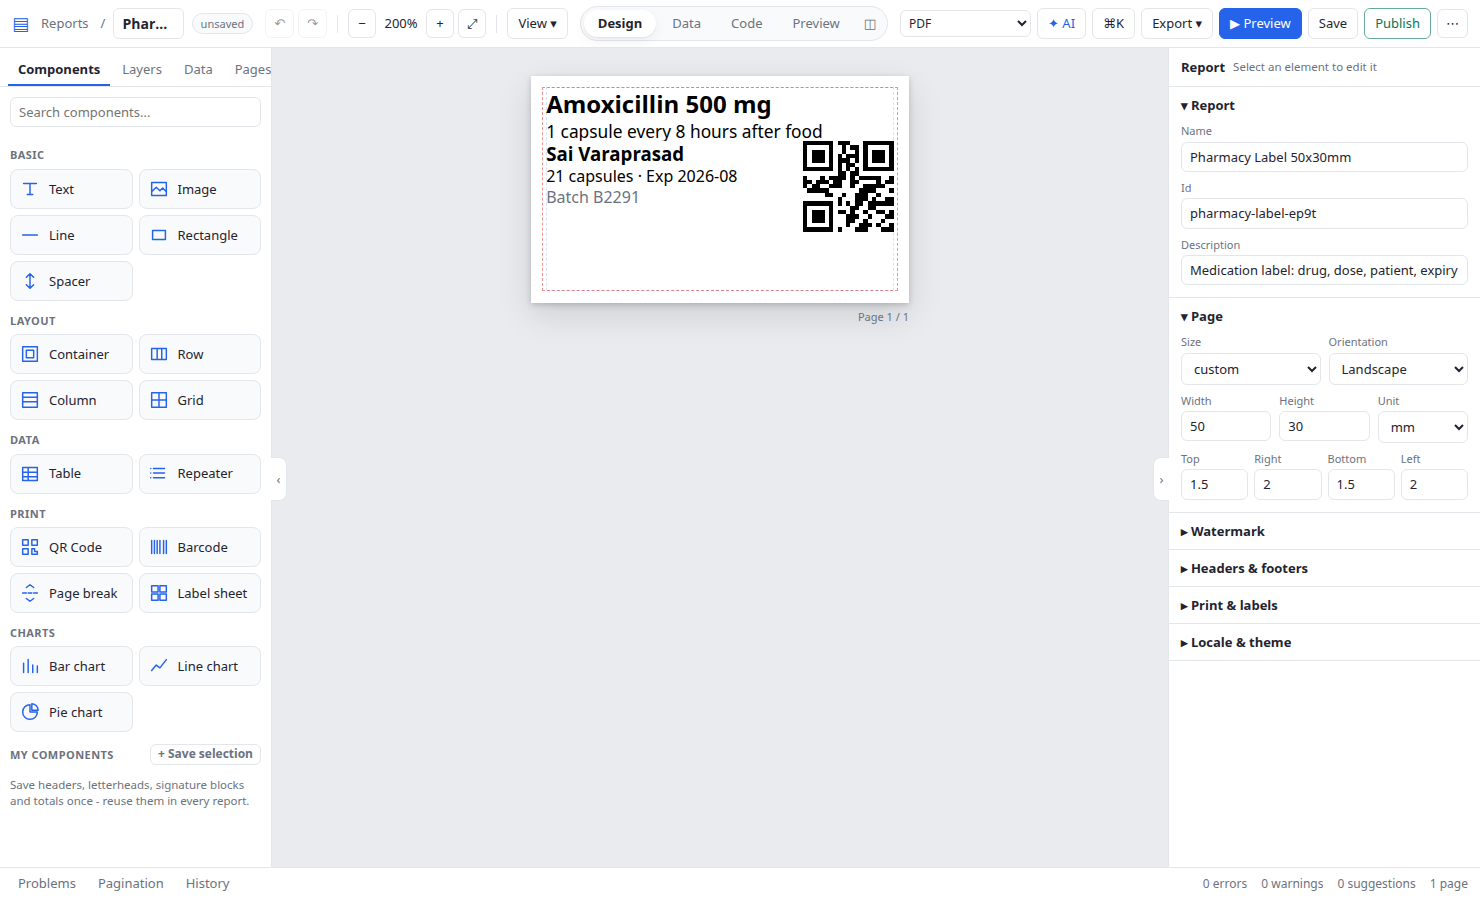
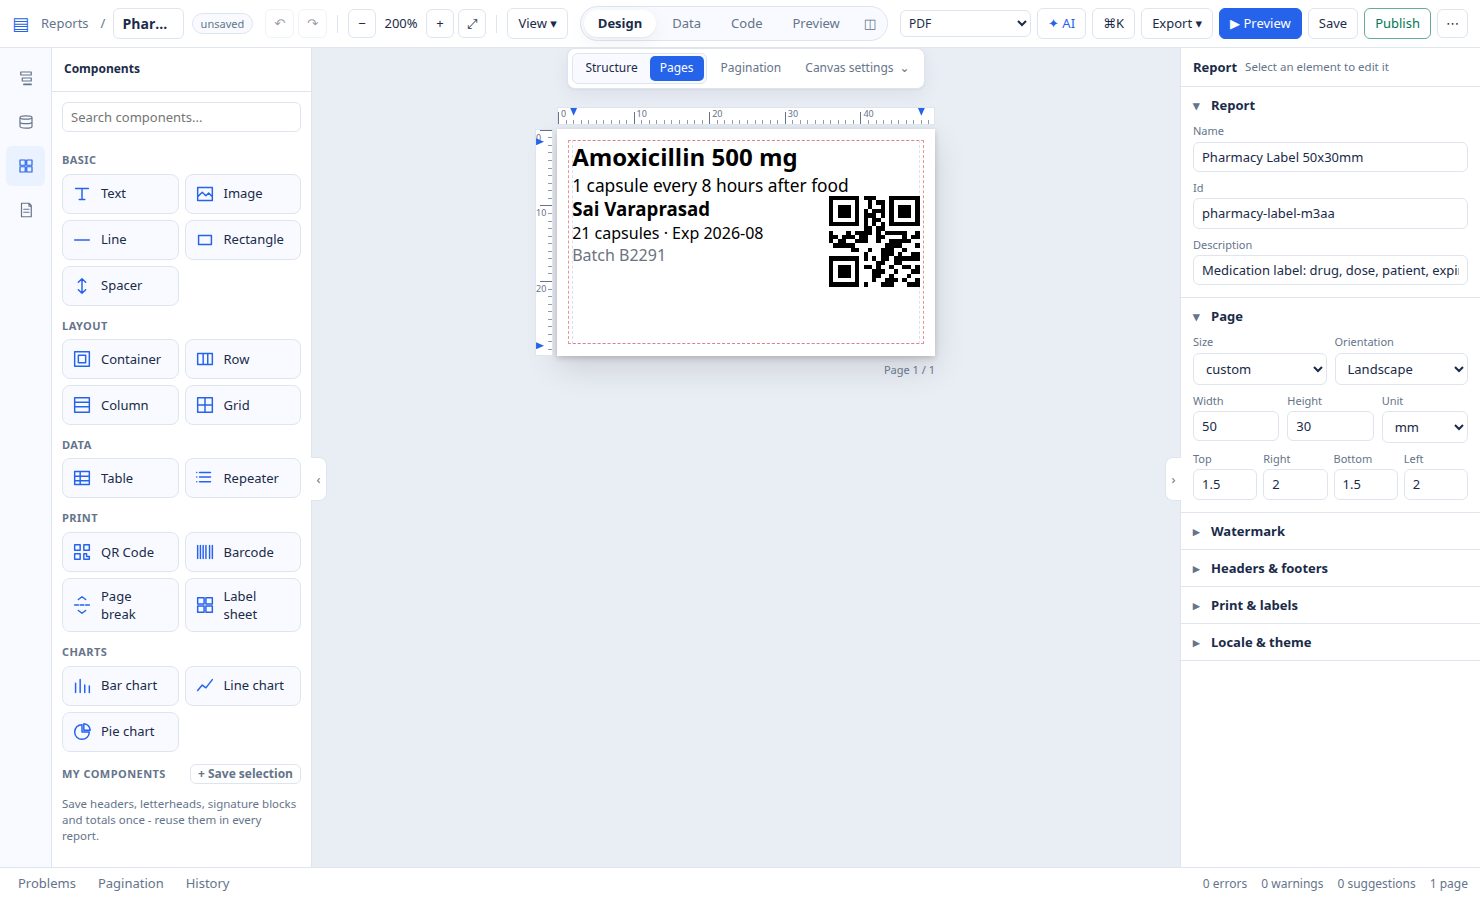
docs: refresh README screenshots, add banded structure view section and current status
Claude-Session: https://claude.ai/code/session_01L8w7Z8HEnTpTJ4HZhxrqEv

diff --git a/apps/designer/tests/e2e/screenshots.spec.ts b/apps/designer/tests/e2e/screenshots.spec.ts
@@ -64,3 +64,11 @@ test("AI proposal with diff", async ({ page }) => {
   await page.waitForTimeout(800);
   await page.screenshot({ path: out("ai-diff.png") });
 });
+
+test("banded structure view", async ({ page }) => {
+  await page.addInitScript(() => localStorage.setItem("designer.canvasView", "structure"));
+  await open(page, "department-report", "department");
+  await page.evaluate(() => (window as any).__designer.getState().set({ zoom: 0.9, showGrid: false }));
+  await page.waitForTimeout(700);
+  await page.screenshot({ path: out("bands.png") });
+});

diff --git a/README.md b/README.md
@@ -89,6 +89,11 @@ curl -X POST localhost:4000/api/v1/render -H 'content-type: application/json' \
 
 Step-by-step recipes: **[docs/USE_CASES.md](docs/USE_CASES.md)**.
 
+### Design the report's structure — bands, groups, rulers, guides
+![Banded structure view: report header, page header, nested groups, detail, totals, no-data and page footer](docs/images/bands.png)
+
+Reports are built from real **bands** (report/page/group/data headers and footers, detail, child, no-data, background) that the engine understands — nested groups, repeated group headers, keep-together and page-break rules all work in the PDF, not just on the canvas. Millimetre/inch/point rulers, draggable margins, persistent guides, band resize/collapse/reorder, and a *Structure ⇄ Pages* switch.
+
 ### See *why* a page broke — and fix it in one click
 ![Pagination decisions explained](docs/images/pagination.png)
 
@@ -152,18 +157,18 @@ Trust is earned with tests, so there are a lot (~400):
 - **Security suite:** formula sandbox, SSRF, SQL/HTML/CSV/ZPL injection, path traversal, prototype pollution, auth
 - **Real databases:** PostgreSQL and MySQL integration tests
 - **AI/MCP end-to-end:** a real MCP client against the real server
-- **~40 browser tests** driving the designer; a scripted "hospital day" demo (templates → versions → PDF/ZPL/XLSX/CSV, 100 000-row export)
+- **~95 browser tests** driving the designer; a scripted "hospital day" demo (templates → versions → PDF/ZPL/XLSX/CSV, 100 000-row export)
 - Indicative speed on a laptop-class CPU (`pnpm --filter @reporting/server bench`): 100 000-row XLSX ≈ 8 s · 100 000-row CSV ≈ 5 s · 2 000-row PDF ≈ 0.8 s
 
 CI (`.github/workflows/ci.yml`) runs all of it against real PostgreSQL and MySQL.
 
 ## 🗺 Status and roadmap
 
-**Works today:** six outputs · pagination engine · designer (design / data / code / preview, layers, page layouts, print profiles, label sheets) · versioned template server · plugins · MCP server · designer AI bar · Docker · CI.
+**Works today:** six outputs · pagination engine · banded designer (structure/pages views, rulers, guides, nested groups, design / data / code / preview, layers, page layouts, print profiles, label sheets, embedded or linked logos) · versioned template server · plugins · MCP server · designer AI bar · Docker · CI.
 
 **Next** (contributions welcome — issues labelled `roadmap`): typed SDKs + CLI · PDF/A and digital signatures · footnotes and automatic table of contents · EPL output · streaming for million-row exports · subreports · advanced typography.
 
-**Known limits:** pagination matches the bundled Noto fonts (another font changes line breaks); ZPL uses the printer's built-in Latin fonts (print other scripts as PDF); plugin components preview in *Preview* rather than on the canvas.
+**Known limits:** tall side-by-side rows are not yet split across pages; physical printer output (Zebra/receipt) is verified as PDF/ZPL bytes, not on real hardware; visual baselines are pinned to the Linux CI font setup; pagination matches the bundled Noto fonts (another font changes line breaks); ZPL uses the printer's built-in Latin fonts (print other scripts as PDF); plugin components preview in *Preview* rather than on the canvas.
 
 ## 🤝 Contributing
 
